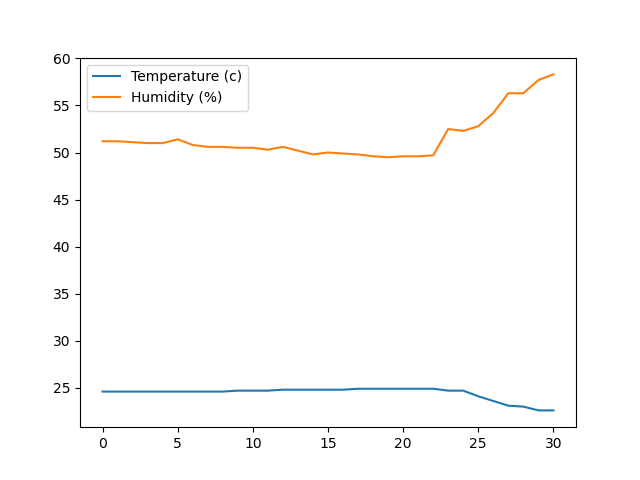
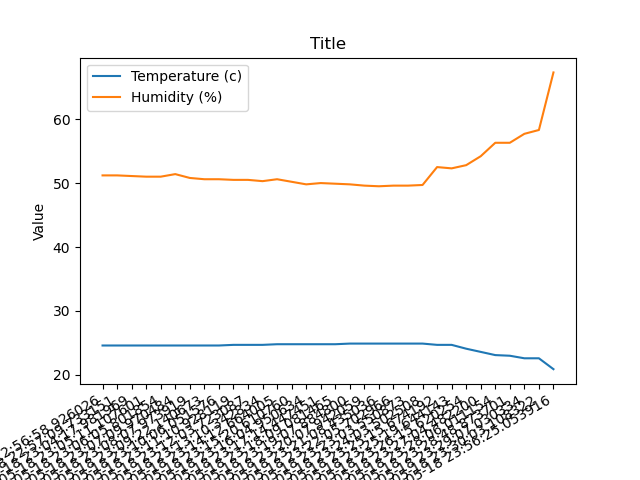
fixing graph plot with new image

diff --git a/code/plotGraph.py b/code/plotGraph.py
@@ -1,10 +1,10 @@
-#!/usr/bin/python 3
+#!/usr/bin/python3
 
 import matplotlib.pyplot as plt
 import datetime
 import pandas as pd
 
-data = pd.read_csv('weather_data.csv',parse_dates='date-time')
+data = pd.read_csv('weather_data.csv',parse_dates=True)
 x = data['date-time']
 t = data['temperature']
 h = data['humidity']
